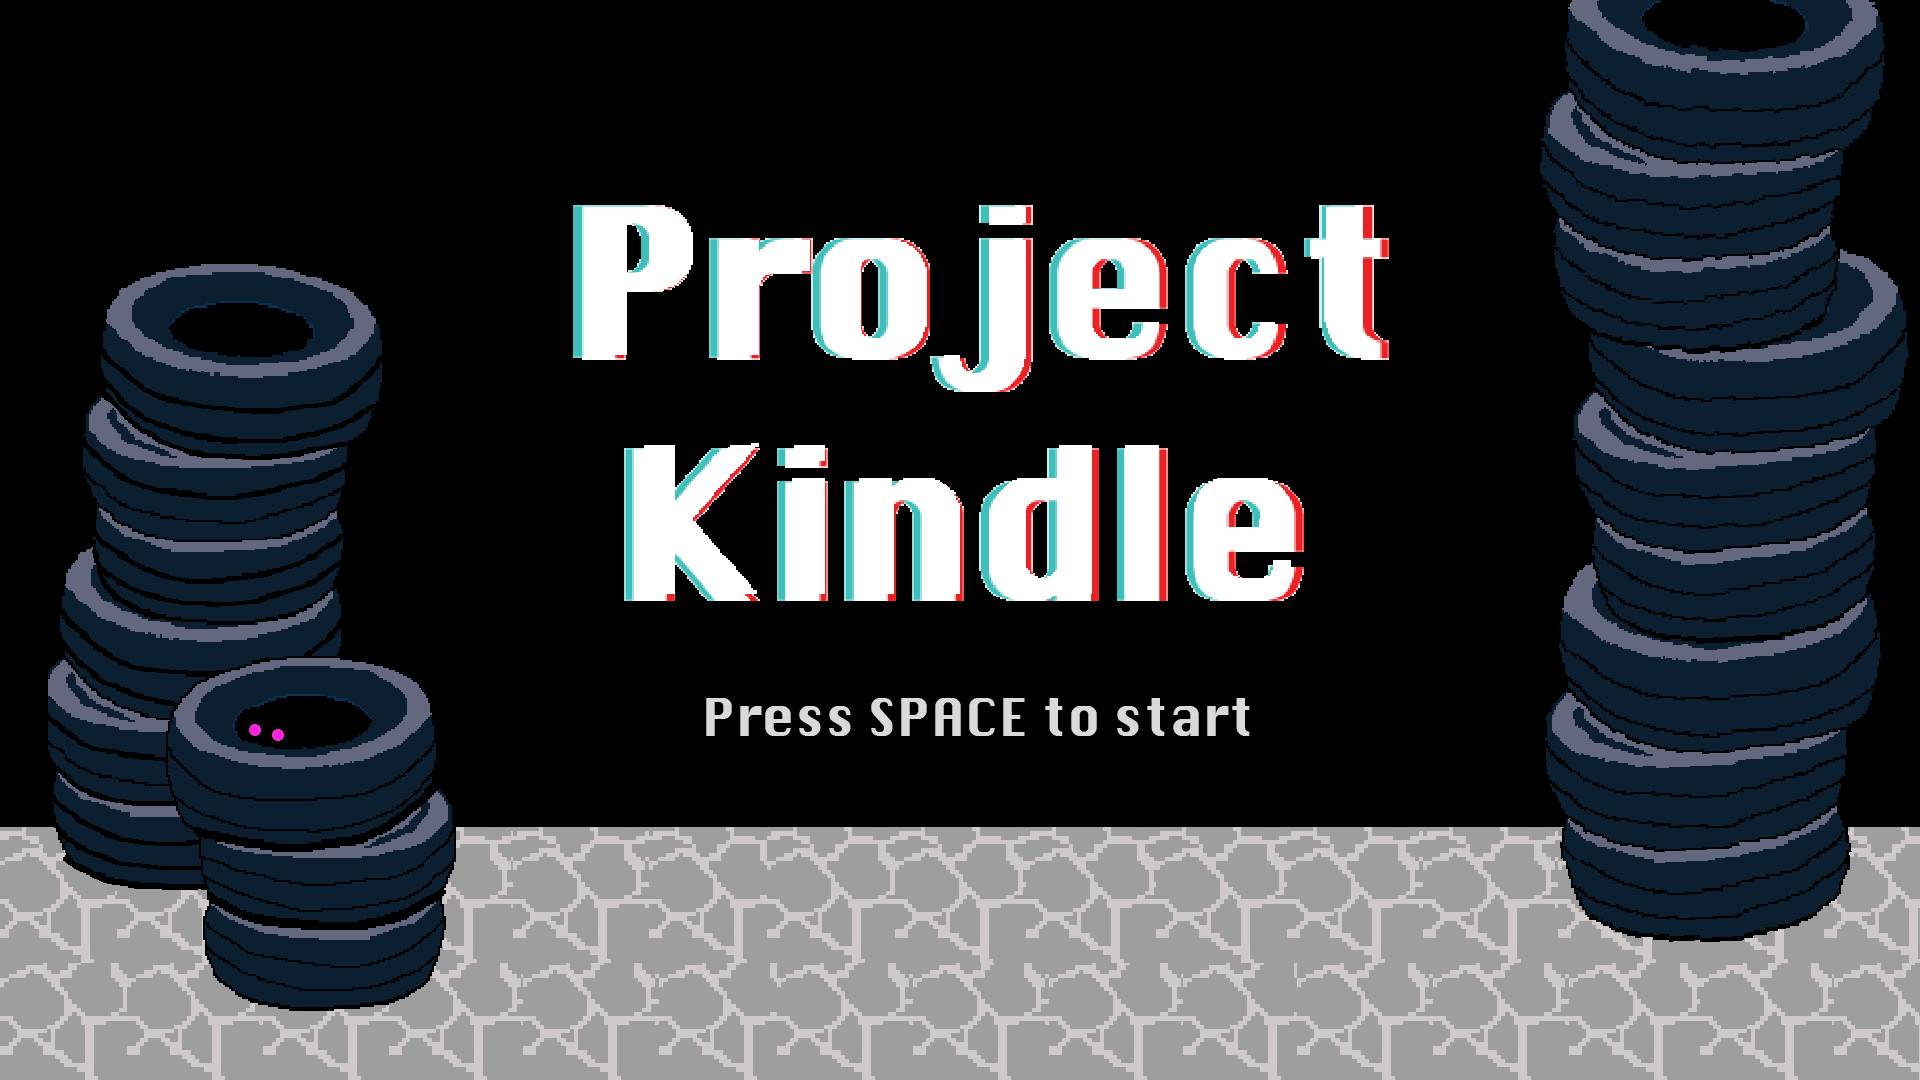
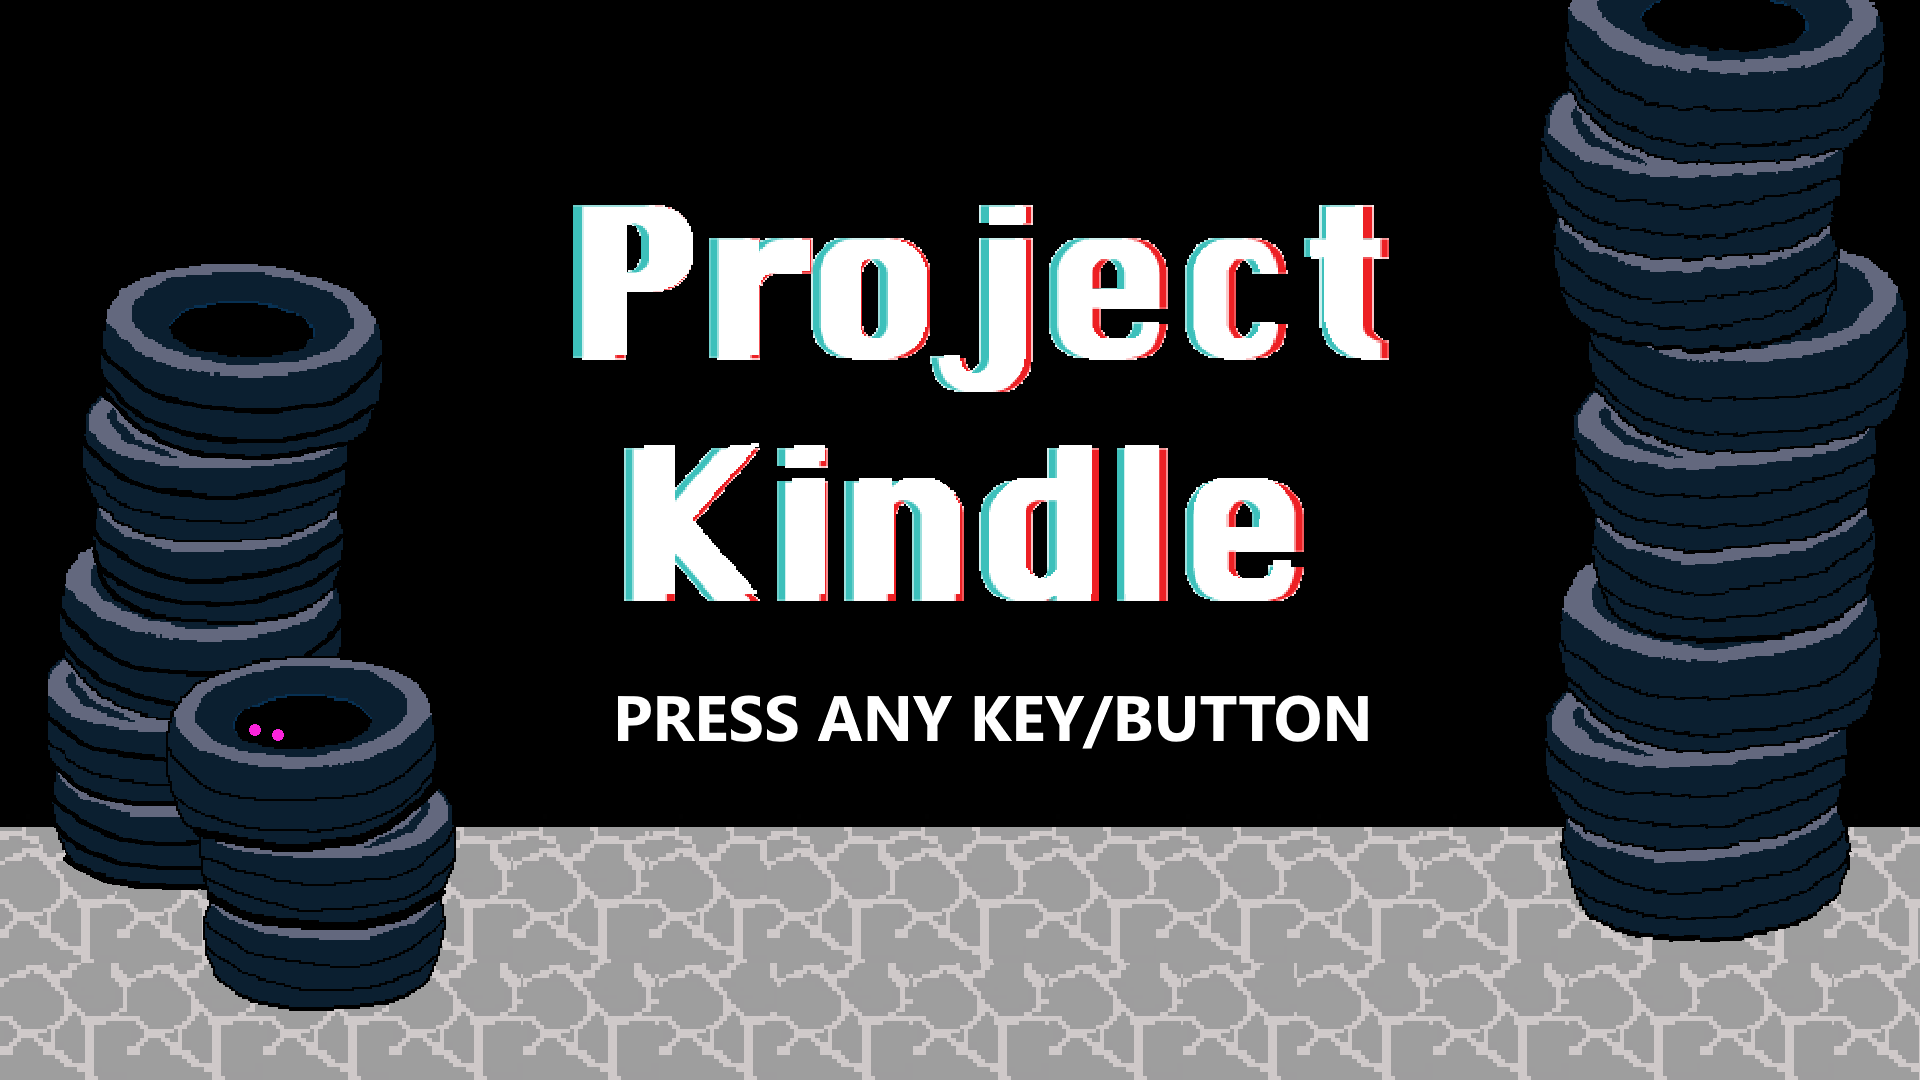
Changed title screen input

Changed region(s): [[0.3125, 0.6417, 0.7188, 0.7028]]

diff --git a/project-kindle/Assets/__Game/Scenes/ShowMenu.cs b/project-kindle/Assets/__Game/Scenes/ShowMenu.cs
@@ -13,7 +13,7 @@ public class ShowMenu : MasterObject
 
     void Update()
     {
-        if(Input.GetKeyDown("space"))
+        if(Input.anyKeyDown)
         {
             mainMenu.enabled = true;
             anim.Play("Base Layer.MenuBackground", 0, 0.0f);
